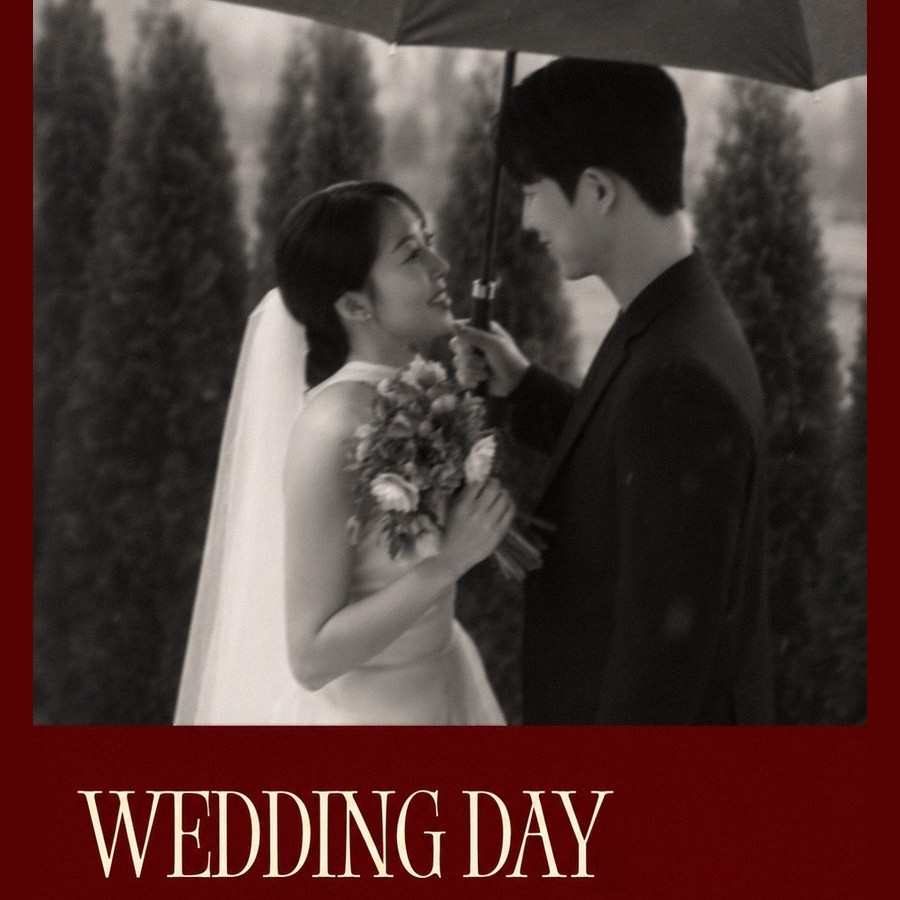
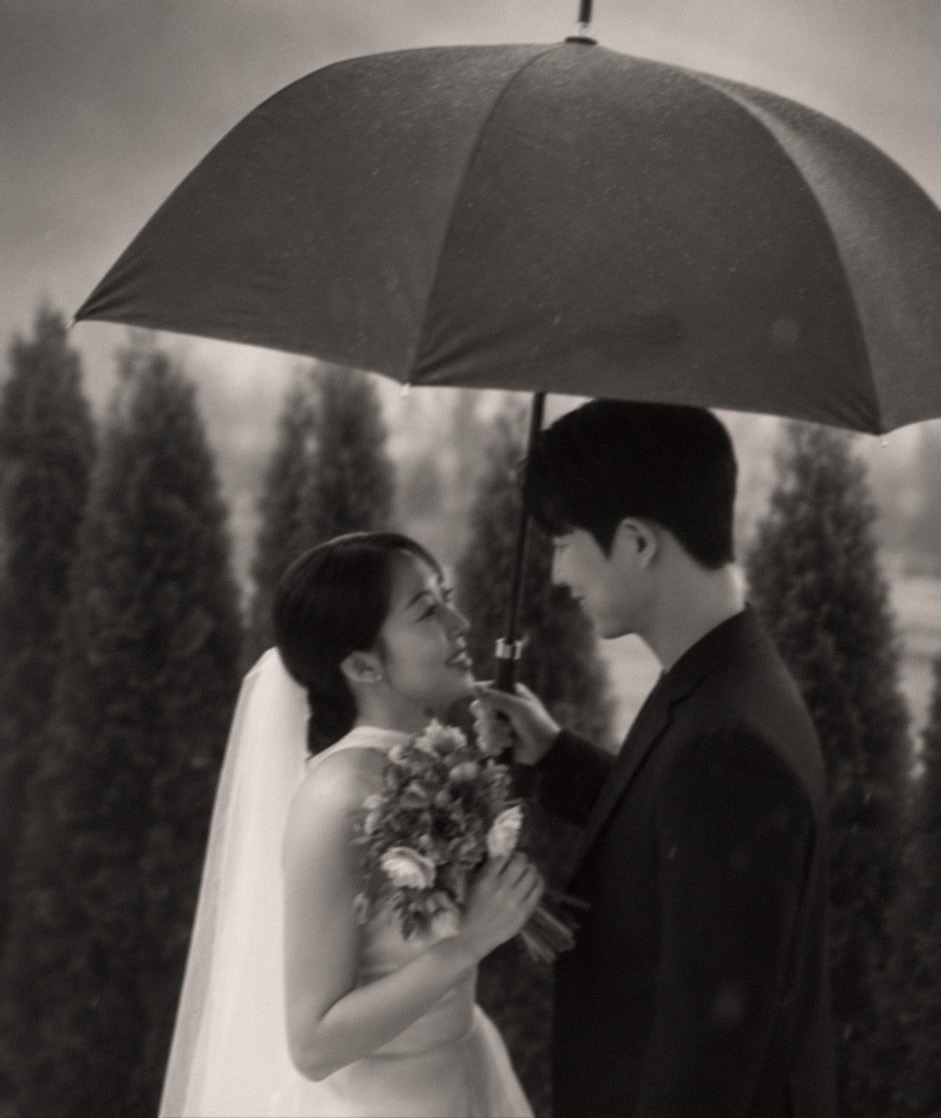
Add files via upload

diff --git a/index.html b/index.html
@@ -13,12 +13,12 @@
   <meta property="og:site_name" content="이현준 ♥ 박상빈 결혼합니다" />
   <meta property="og:url" content="https://hjlovesb.github.io/1017wedding/" />
   <meta property="og:title" id="og-title" content="이현준 ♥ 박상빈 결혼합니다" />
-  <meta property="og:description" id="og-description" content="2026. 10. 17 (Sat) PM 4:20&#10;나비스퀘어 나비홀" />
+  <meta property="og:description" id="og-description" content="2026. 10. 17 (Sat) PM 4:20&#10;나비스퀘어&#160;나비홀" />
   <meta property="og:image" id="og-image" content="https://hjlovesb.github.io/1017wedding/images/og/1.jpg" />
   <meta property="og:image:secure_url" content="https://hjlovesb.github.io/1017wedding/images/og/1.jpg" />
   <meta property="og:image:type" content="image/jpeg" />
-  <meta property="og:image:width" content="900" />
-  <meta property="og:image:height" content="900" />
+  <meta property="og:image:width" content="941" />
+  <meta property="og:image:height" content="1118" />
   <meta property="og:locale" content="ko_KR" />
 
   <meta name="twitter:card" content="summary_large_image" />
@@ -38,7 +38,7 @@
     rel="stylesheet"
   />
 
-  <link rel="stylesheet" href="styles.css?v=20260728final65" />
+  <link rel="stylesheet" href="styles.css?v=20260728final66" />
 
   <!-- Intro / Thankyou image preload -->
   <link rel="preload" as="image" href="images/intro/intro-bg.jpg" />
@@ -401,9 +401,9 @@
   </script>
 
   <!-- Scripts -->
-  <script src="config.js?v=20260728final65"></script>
-  <script src="script.js?v=20260728final65"></script>
-  <script src="music.js?v=20260728final65"></script>
-  <script src="rsvp.js?v=20260728final65"></script>
+  <script src="config.js?v=20260728final66"></script>
+  <script src="script.js?v=20260728final66"></script>
+  <script src="music.js?v=20260728final66"></script>
+  <script src="rsvp.js?v=20260728final66"></script>
 </body>
 </html>
